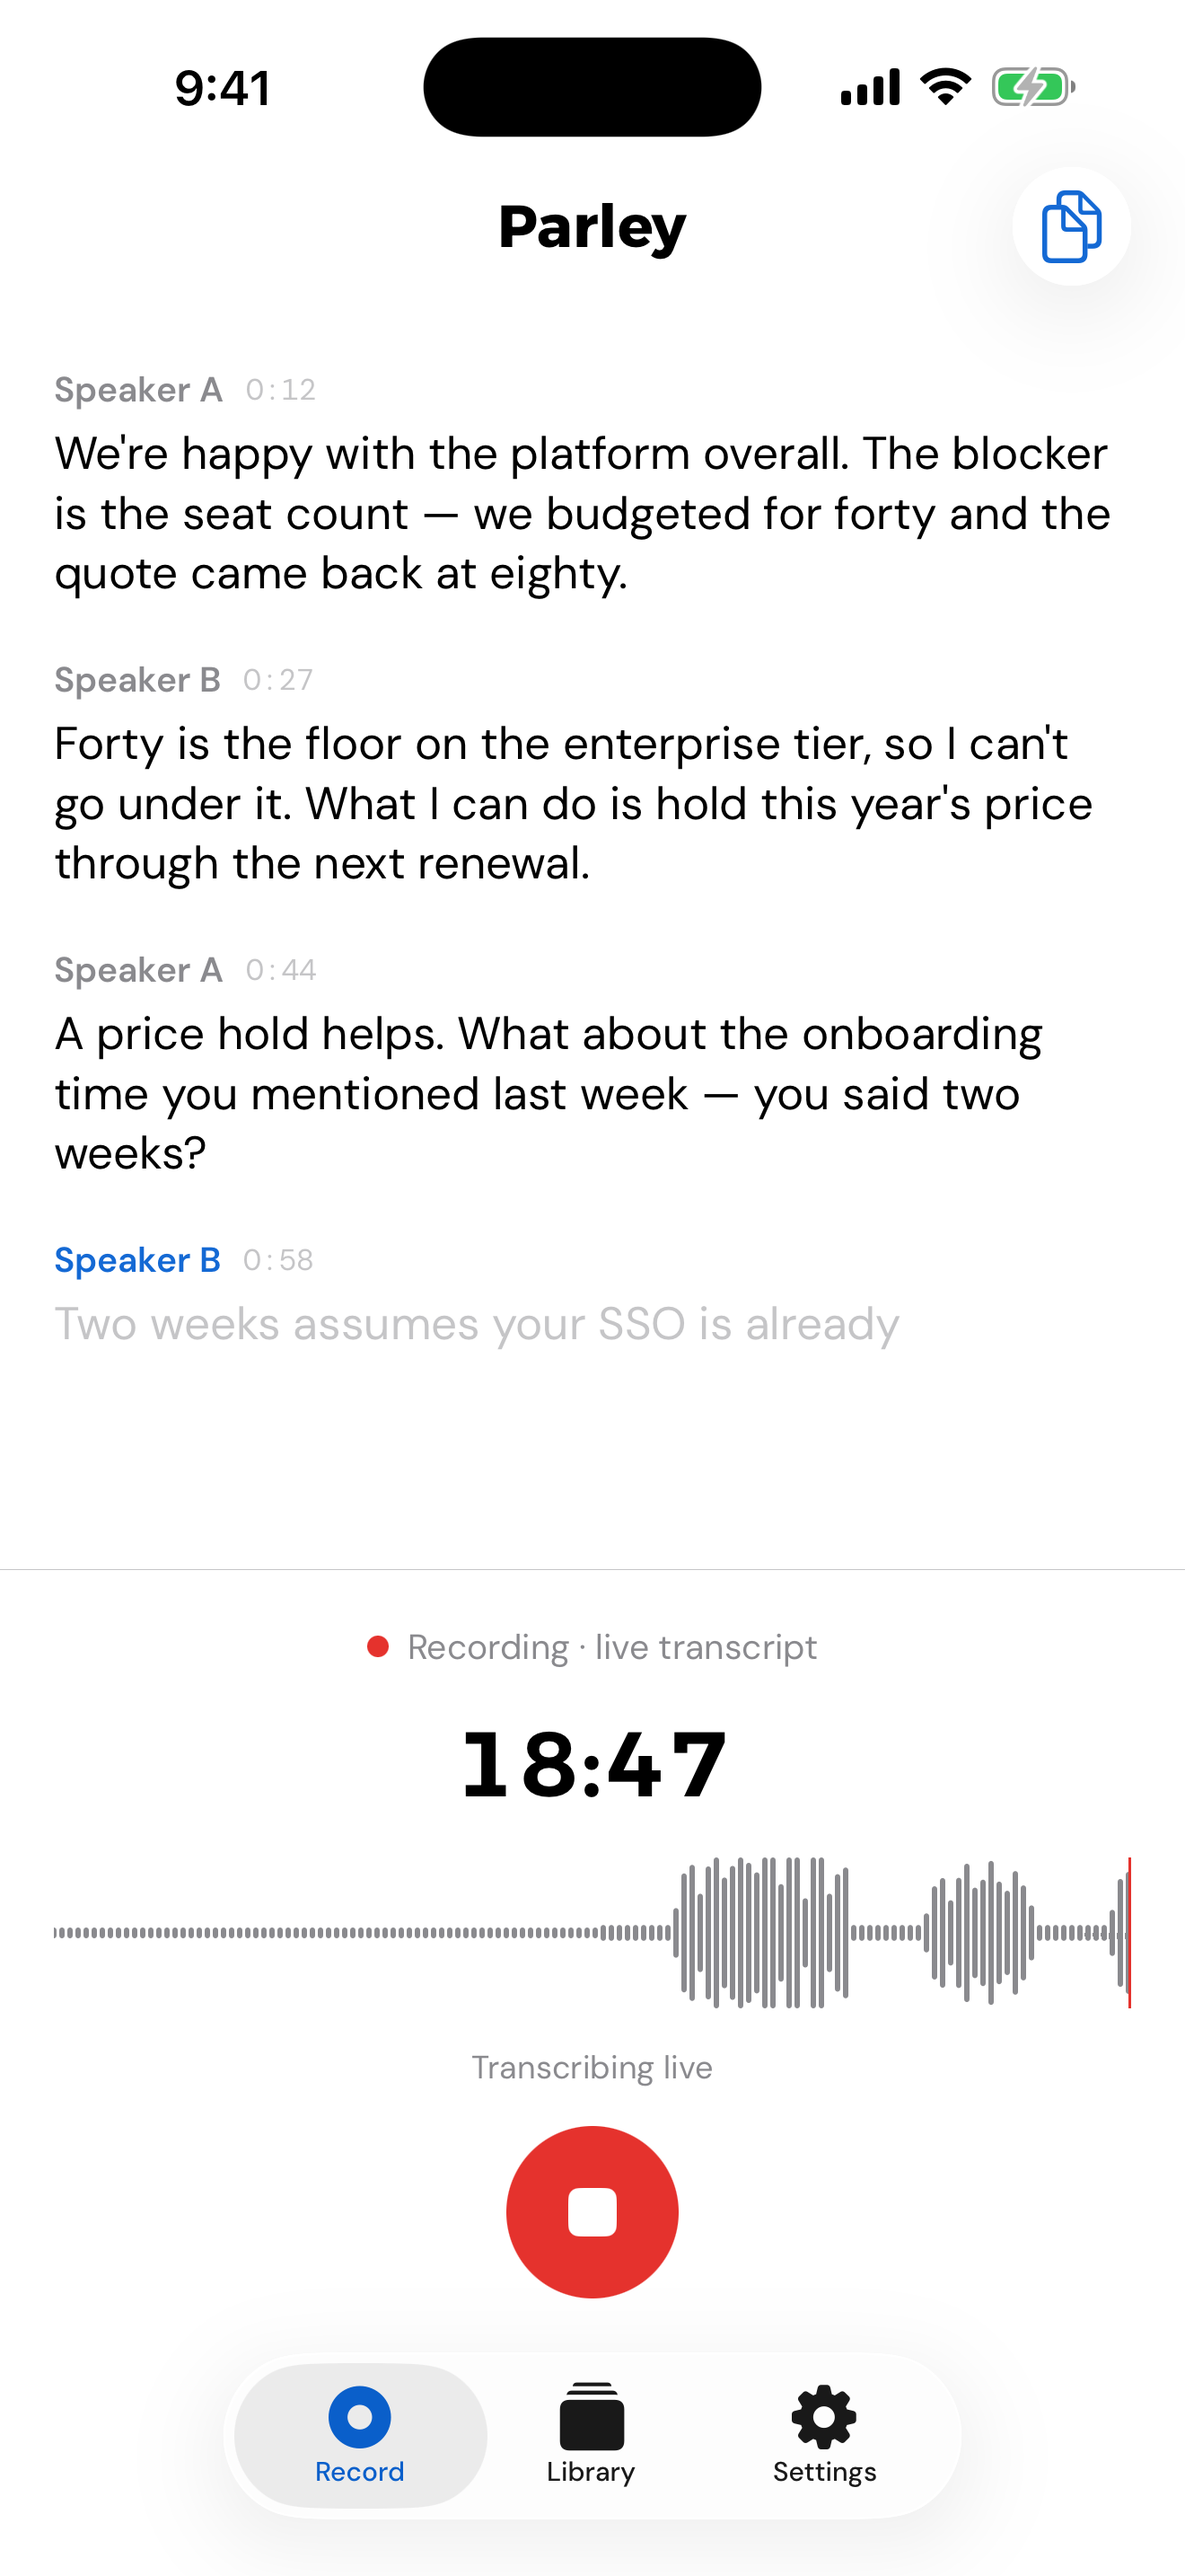
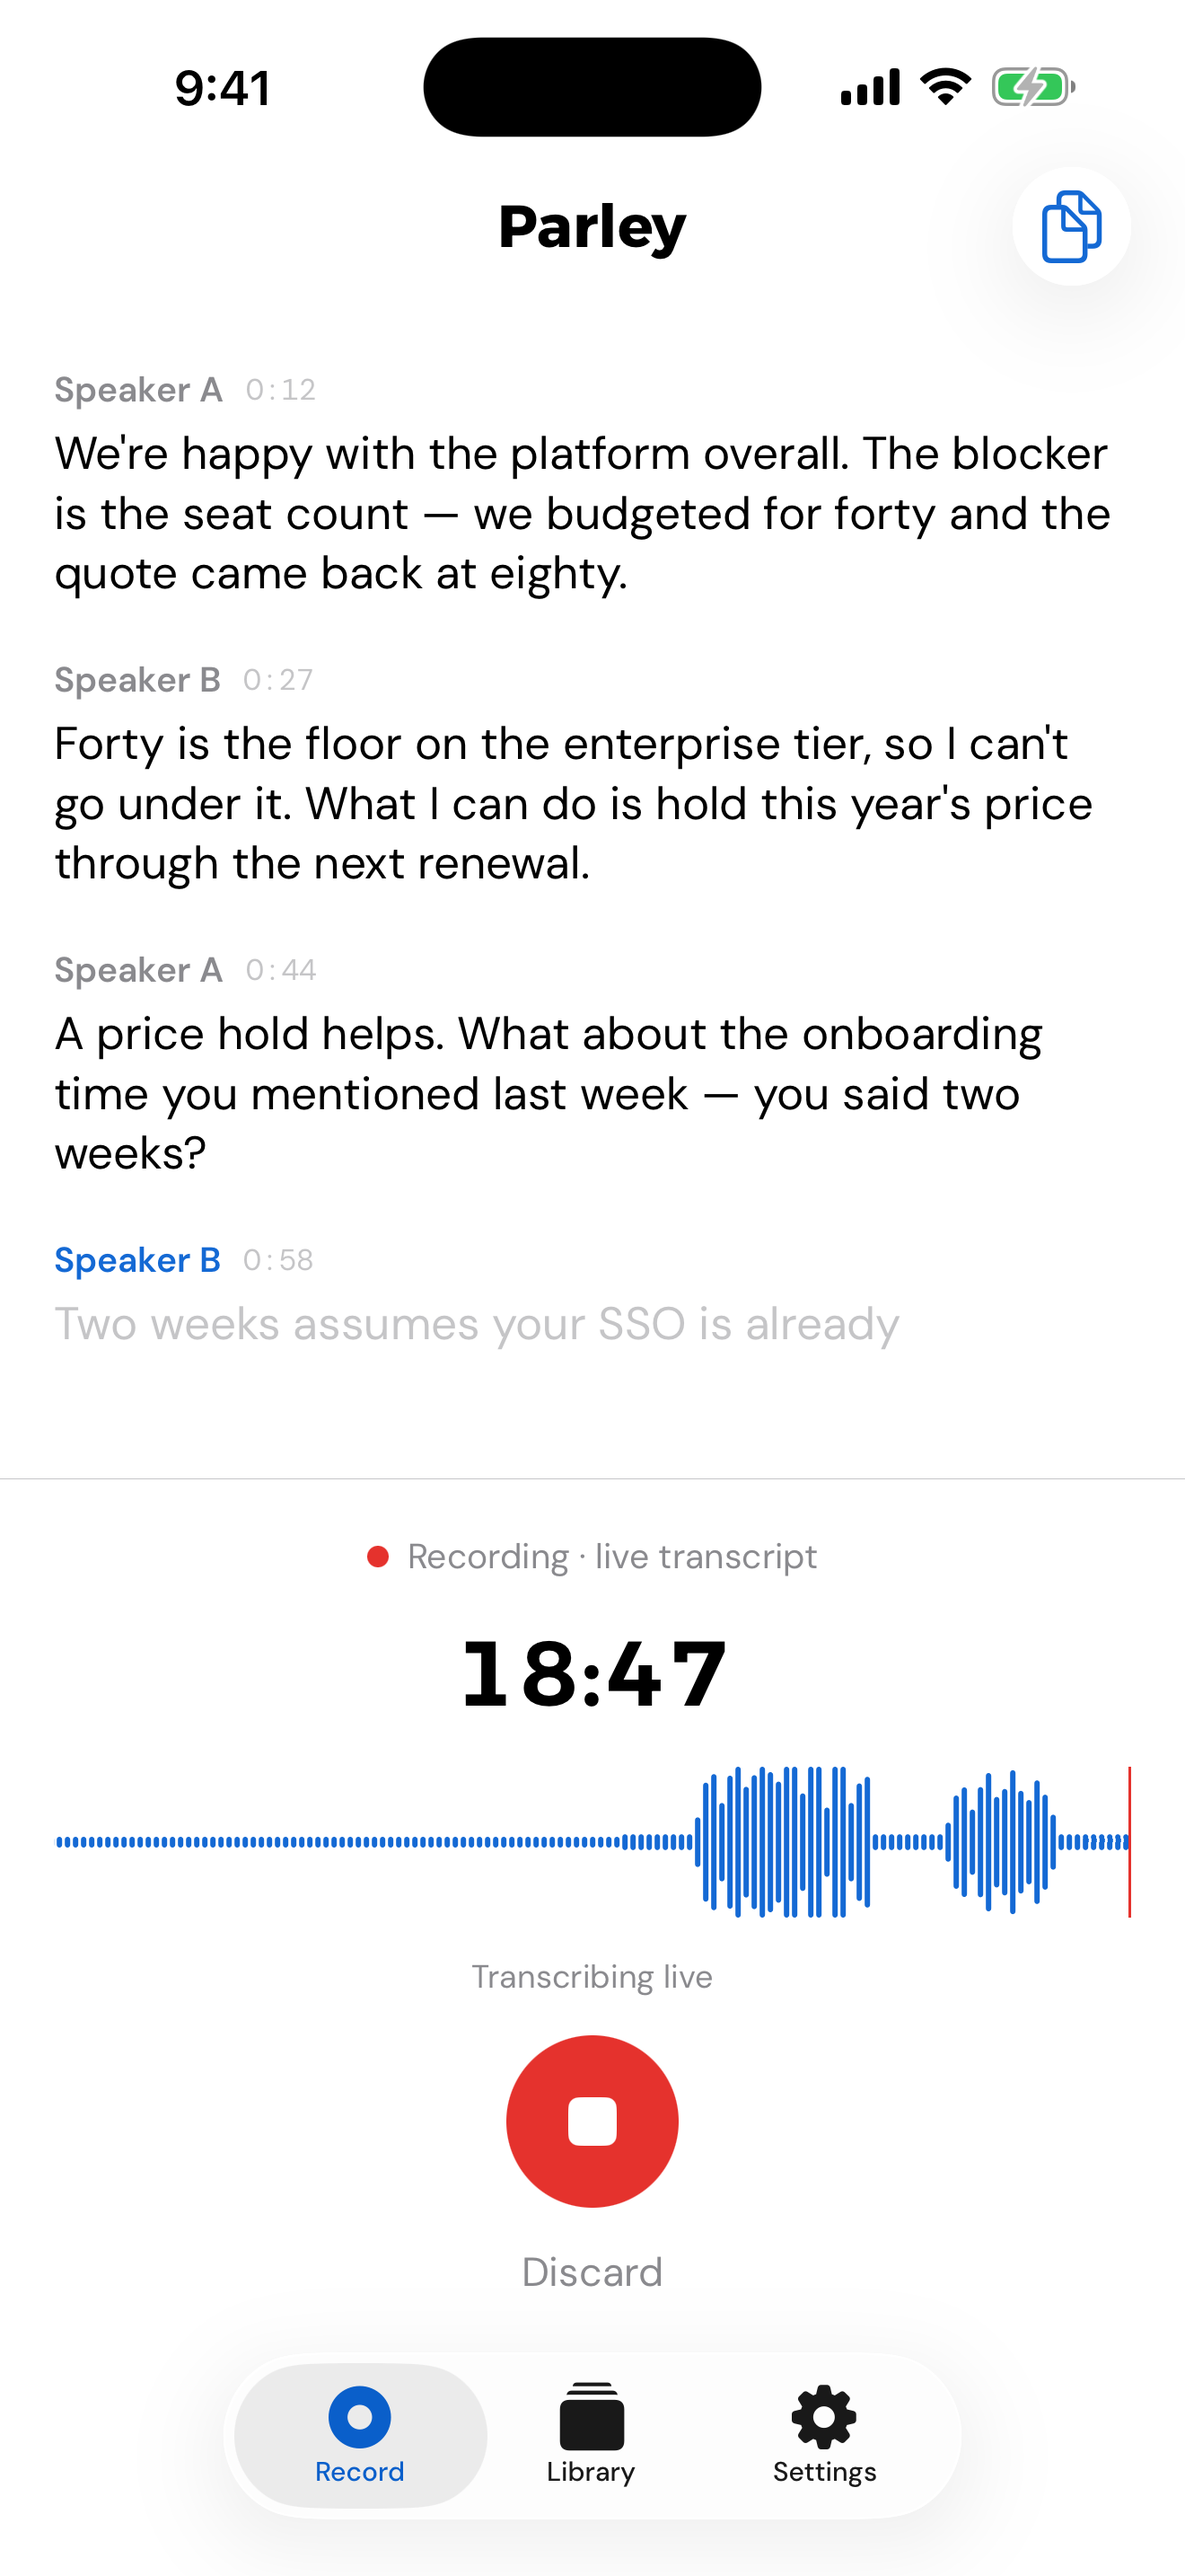
[feature] the live waveform is signal blue, and a recording can be thrown away
Two changes from looking at the first real screenshots.

The waveform was drawn in secondaryLabel grey. It is the one thing on the
live screen that is happening right now, which is what the blue is
reserved for, so it takes the blue; the playhead stays recording red.

And the live screen had one exit — stop — which saves and uploads. A
recording started by mistake had no way out that did not leave a
two-second zombie in the library. There is now a plain Discard action
under the stop control, behind a confirmation: it stops the microphone,
cancels the relay without draining it, deletes the temporary audio file
and clears the transcript. Nothing is saved or uploaded, and nothing is
queued for a later sync.

Changed region(s): [[0.3106, 0.5896, 0.9629, 0.8999], [0.6523, 0.5896, 0.6833, 0.6517]]

diff --git a/ios/App/Parley/LiveView.swift b/ios/App/Parley/LiveView.swift
@@ -26,6 +26,7 @@ struct LiveView: View {
     /// where the block goes and when a new recording retires it.
     @StateObject private var filing = FilingSuggestionModel()
     @State private var showRecordingConsent = false
+    @State private var showDiscardConfirm = false
 
     var body: some View {
         NavigationStack {
@@ -269,6 +270,9 @@ struct LiveView: View {
                 statusLine(status)
             }
             recordControl
+            if recorder.isRecording {
+                discardControl
+            }
             if !recorder.isRecording && !app.hasAccount {
                 Text("Your session expired. Sign in with the button above and recording works again.")
                     .font(.parley.caption)
@@ -294,6 +298,32 @@ struct LiveView: View {
                 .font(.parley.displayNumber)
                 .foregroundStyle(Color(.tertiaryLabel))
                 .accessibilityHidden(true)
+        }
+    }
+
+    /// The way out for a recording that should not have started. Stop is
+    /// "keep this"; without a second door every mis-tap became a two-second
+    /// recording in the library. Plain secondary text under the circle, and a
+    /// confirmation, because it throws the audio away.
+    private var discardControl: some View {
+        Button {
+            showDiscardConfirm = true
+        } label: {
+            Text("Discard")
+                .font(.parley.subheadline)
+                .foregroundStyle(Color(.secondaryLabel))
+        }
+        .buttonStyle(.plain)
+        .disabled(recorder.isBusy)
+        .confirmationDialog(
+            "Discard this recording?", isPresented: $showDiscardConfirm, titleVisibility: .visible
+        ) {
+            Button("Discard", role: .destructive) {
+                Task { await recorder.discard() }
+            }
+            Button("Cancel", role: .cancel) {}
+        } message: {
+            Text("The audio and transcript are thrown away. Nothing is saved or uploaded.")
         }
     }
 

diff --git a/ios/App/Parley/MeetingRecorder.swift b/ios/App/Parley/MeetingRecorder.swift
@@ -251,6 +251,36 @@ final class MeetingRecorder: ObservableObject {
         await upload(app: app)
     }
 
+    /// Throw the meeting away: stop the microphone, drop the relay without
+    /// draining it, delete the audio file, and clear the transcript. Nothing is
+    /// saved and nothing is uploaded — this is the exit for a recording that
+    /// should never have started, which otherwise had no way out but `stop()`
+    /// and a zombie recording in the library.
+    func discard() async {
+        guard isRecording else { return }
+        finishRequested = true
+        phase = .finishing
+        reconnectTask?.cancel()
+        reconnectTask = nil
+
+        let cap = capture
+        capture = nil
+        await cap?.stop()
+        audio.discard()
+        micLevel = 0
+
+        relay?.cancel()
+        relay = nil
+        uploader?.abandon()
+        uploader = nil
+
+        segments = []
+        settled = nil
+        startedAt = nil
+        status = nil
+        phase = .idle
+    }
+
     // MARK: relay
 
     private func makeRelay(token: String, leg: Int, timeOffsetMs: UInt64) -> SttRelayClient {

diff --git a/ios/App/Parley/MeetingUploader.swift b/ios/App/Parley/MeetingUploader.swift
@@ -41,6 +41,18 @@ final class MeetingUploader {
         Double(samplesFed) / Double(OggOpusEncoder.sampleRate) * 1000
     }
 
+    /// The user threw the meeting away: close the encoder and delete the audio
+    /// file so nothing is left to upload. Not persisted to the pending queue,
+    /// so `syncPending` never resurrects it.
+    func abandon() {
+        queue.sync { [self] in
+            encoder = nil
+            try? fileHandle?.close()
+            fileHandle = nil
+            try? FileManager.default.removeItem(at: fileURL)
+        }
+    }
+
     /// Shorter than this and there is no meeting to keep. Shared with the
     /// import path so a picked file is judged by the same bar a live recording
     /// is — and so the two can never drift apart.

diff --git a/ios/App/Parley/WaveformView.swift b/ios/App/Parley/WaveformView.swift
@@ -132,7 +132,9 @@ struct WaveformView: View {
                     width: Self.barWidth, height: barHeight),
                 cornerSize: CGSize(width: Self.barWidth / 2, height: Self.barWidth / 2))
         }
-        context.fill(bars, with: .color(Color(.secondaryLabel)))
+        // Signal blue: the field is the one thing on this screen that is
+        // happening right now, which is what the blue is reserved for.
+        context.fill(bars, with: .color(Theme.primary))
 
         // The playhead: where "now" is. Recording red, because that is the one
         // thing on this screen the colour is reserved for.
